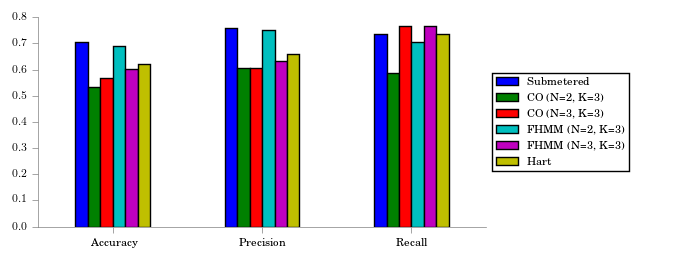
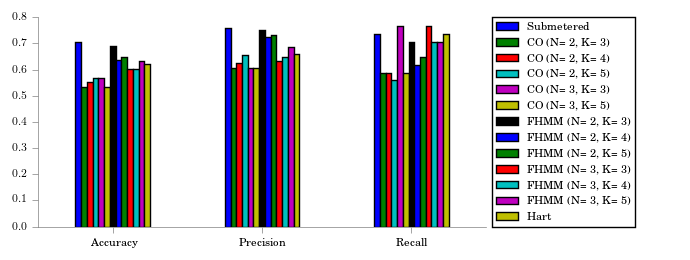
small change to add another folder

diff --git a/code/hvac/model_accuracy_nilm.py b/code/hvac/model_accuracy_nilm.py
@@ -36,9 +36,21 @@ def accuracy_multiclass(y_true, y_pred):
         out += confusion[i, i] * 1.0 / np.sum(confusion[i])
     return out / length
 
+def find_name(folder):
+    algo_name = folder.split("_")[-1]
+    algo_N = folder.split("_")[0][1]
+    algo_K = folder.split("_")[1][1]
+    if algo_name=="Hart":
+        return "Hart"
+    else:
+        return algo_name+" (N= "+algo_N+", K= "+algo_K+")"
 
-to_consider = ["N2_K3_T50_CO", "N3_K3_T50_CO", "N2_K4_T50_CO",
-               "N2_K3_T50_FHMM", "N3_K3_T50_FHMM","N2_K3_T50_Hart"]
+
+to_consider = ["N2_K3_T50_CO", "N2_K4_T50_CO", "N2_K5_T50_CO",
+               "N3_K3_T50_CO", "N3_K4_T50_CO", "N3_K5_T50_CO",
+               "N2_K3_T50_FHMM","N2_K4_T50_FHMM","N2_K5_T50_FHMM",
+               "N3_K3_T50_FHMM","N3_K4_T50_FHMM","N3_K5_T50_FHMM",
+               "N2_K3_T50_Hart" ]
 
 for folder in to_consider:
     df = pd.read_csv("../../data/hvac/minutes_%s.csv" % folder)
@@ -64,10 +76,12 @@ for folder in to_consider:
     precision = 1.0 * a[0][0] / (a[0][0] + a[1][0])
     recall = 1.0 * a[0][0] / (a[0][0] + a[0][1])
     overall_accuracy = 1.0 * (a[0][0] + a[1][1]) / (np.sum(a))
-    output[folder] = {"Precision": precision, "Recall": recall, "Accuracy": overall_accuracy}
+
+    algo_identifier = find_name(folder)
+    output[algo_identifier] = {"Precision": precision, "Recall": recall, "Accuracy": overall_accuracy}
 
 out_df = pd.DataFrame(output)
-out_df.columns = ["Submetered", "CO (N=2, K=3)","CO (N=3, K=3)","CO (N=3, K=4)","FHMM (N=2, K=3)","FHMM (N=3, K=3)", "Hart"]
+#out_df.columns = ["Submetered", "CO (N=2, K=3)","CO (N=3, K=3)","CO (N=3, K=4)","FHMM (N=2, K=3)","FHMM (N=3, K=3)", "Hart"]
 
 latexify(columns=2, fig_height=2.6)
 ax = out_df.plot(kind="bar", rot=0)

diff --git a/code/hvac/nilm_create_feature.py b/code/hvac/nilm_create_feature.py
@@ -124,7 +124,7 @@ def fcn2min_time_fixed_binary(params, x, data):
 
 
 to_consider = ["N2_K3_T50_CO", "N2_K4_T50_CO", "N2_K5_T50_CO",
-               "N3_K3_T50_CO", "N3_K5_T50_CO", "N3_K5_T50_CO",
+               "N3_K3_T50_CO", "N3_K4_T50_CO", "N3_K5_T50_CO",
                "N2_K3_T50_FHMM","N2_K4_T50_FHMM","N2_K5_T50_FHMM",
                "N3_K3_T50_FHMM","N3_K4_T50_FHMM","N3_K5_T50_FHMM",
                "N2_K3_T50_Hart" ]
